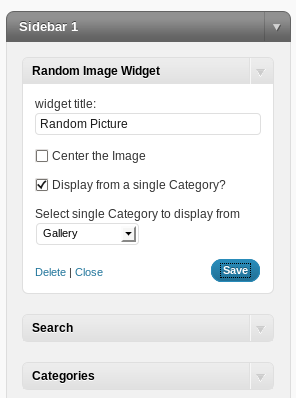
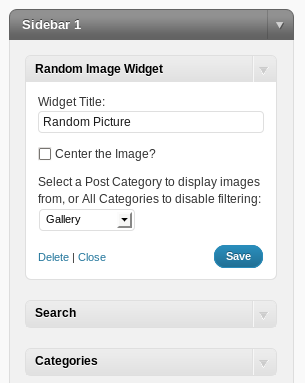
Updates
git-svn-id: http://plugins.svn.wordpress.org/random-image-block/trunk@209680 b8457f37-d9ea-0310-8a92-e5e31aec5664

diff --git a/random-image-block.php b/random-image-block.php
@@ -25,9 +25,8 @@ class random_image_widget extends WP_Widget {
   function widget($args, $instance) {
     extract($args);
     $riw_widget_title = empty($instance['widget_title']) ? '&nbsp;' : apply_filters('widget_title', $instance['widget_title']);
-    $riw_cat_single = empty($instance['single_category']) ? 'off' : apply_filters('single_category', $instance['single_category']);
-    $riw_cat_id = empty($instance['gallery_category']) ? 'empty' : apply_filters('gallery_category', $instance['gallery_category']);
     $riw_center = empty($instance['center']) ? 'off' : apply_filters('center', $instance['center']);
+    $riw_cat_id = empty($instance['gallery_category']) ? '&nbsp;' : apply_filters('gallery_category', $instance['gallery_category']);
     global $wpdb;
 
     if ($riw_widget_title == "&nbsp;") {
@@ -40,10 +39,6 @@ class random_image_widget extends WP_Widget {
       $riw_center_output = "";
     }
 
-    if ($riw_cat_id == '-1') {
-      $riw_cat_single = "off";
-    }
-    
     $args = array(
        'post_type' => 'attachment',
        'post_mime_type' => 'image',
@@ -54,12 +49,12 @@ class random_image_widget extends WP_Widget {
     );
 
     $attachments = get_posts($args);
-
     $noimages = count($attachments);
     if ($attachments) {
       foreach ($attachments as $attachment) {
-        if ( $riw_cat_single == "on" ) {
+        if ( $riw_cat_id !== "-1" ) {
           $albumid = $attachment->post_parent;
+          //echo "on";
         } else {
           $albumid = $attachment->post_parent;
 	  foreach((get_the_category($albumid)) as $category) { 
@@ -92,7 +87,6 @@ class random_image_widget extends WP_Widget {
   function update($new_instance, $old_instance) {
     $instance = $old_instance;
     $instance['widget_title'] = strip_tags($new_instance['widget_title']);
-    $instance['single_category'] = strip_tags($new_instance['single_category']);
     $instance['gallery_category'] = strip_tags($new_instance['gallery_category']);
     $instance['center'] = strip_tags($new_instance['center']);
     return $instance;
@@ -101,18 +95,15 @@ class random_image_widget extends WP_Widget {
   function form($instance) {
     $riw_widget_title = strip_tags($instance['widget_title']);
     $riw_center = $instance['center'];
-    $riw_cat_single = $instance['single_category'];
     $riw_cat_id = strip_tags($instance['gallery_category']);
     ?><p><label for="<?php echo $this->get_field_id('widget_title'); ?>"><?php _e('Widget Title', 'random-image-block')?>:<input class="widefat" id="<?php echo $this->get_field_id('widget_title'); ?>" name="<?php echo $this->get_field_name('widget_title'); ?>" type="text" value="<?php echo attribute_escape($riw_widget_title); ?>" /></label></p>
 
     <p><input class="checkbox" type="checkbox" <?php if ("$riw_center" == "on" ){echo 'checked="checked"';} ?> id="<?php echo $this->get_field_id('center'); ?>" name="<?php echo $this->get_field_name('center'); ?>" />
     <label for="<?php echo $this->get_field_id('center'); ?>"><?php _e('Center the Image?', 'random-image-block')?></label></p>
 
-    <p><input class="checkbox" type="checkbox" <?php if ("$riw_cat_single" == "on" ){echo 'checked="checked"';} ?> id="<?php echo $this->get_field_id('single_category'); ?>" name="<?php echo $this->get_field_name('single_category'); ?>" />
-    <label for="<?php echo $this->get_field_id('single_category'); ?>"><?php _e('Display from a single Category?', 'random-image-block')?></label>
-    <p><label for="<?php echo $this->get_field_id('gallery_category'); ?>"><?php _e('If so, which category?', 'random-image-block')?><br />
-    <?php wp_dropdown_categories( array( 'name' => $this->get_field_name("gallery_category"), 'hide_empty' => 0, 'hierarchical' => 1, 'selected' =>  $instance["gallery_category"], 'show_option_none' => 'Select Category' ) ); ?>
-    </label></p></p>
+    <p><label for="<?php echo $this->get_field_id('gallery_category'); ?>"><?php _e('Select a Post Category to display images from, or All Categories to disable filtering', 'random-image-block')?>:<br />
+    <?php wp_dropdown_categories( array( 'name' => $this->get_field_name("gallery_category"), 'hide_empty' => 0, 'hierarchical' => 1, 'selected' =>  $instance["gallery_category"], 'show_option_none' => __('All Categories') ) ); ?>
+    </label></p>
 
     <?php 
   }
